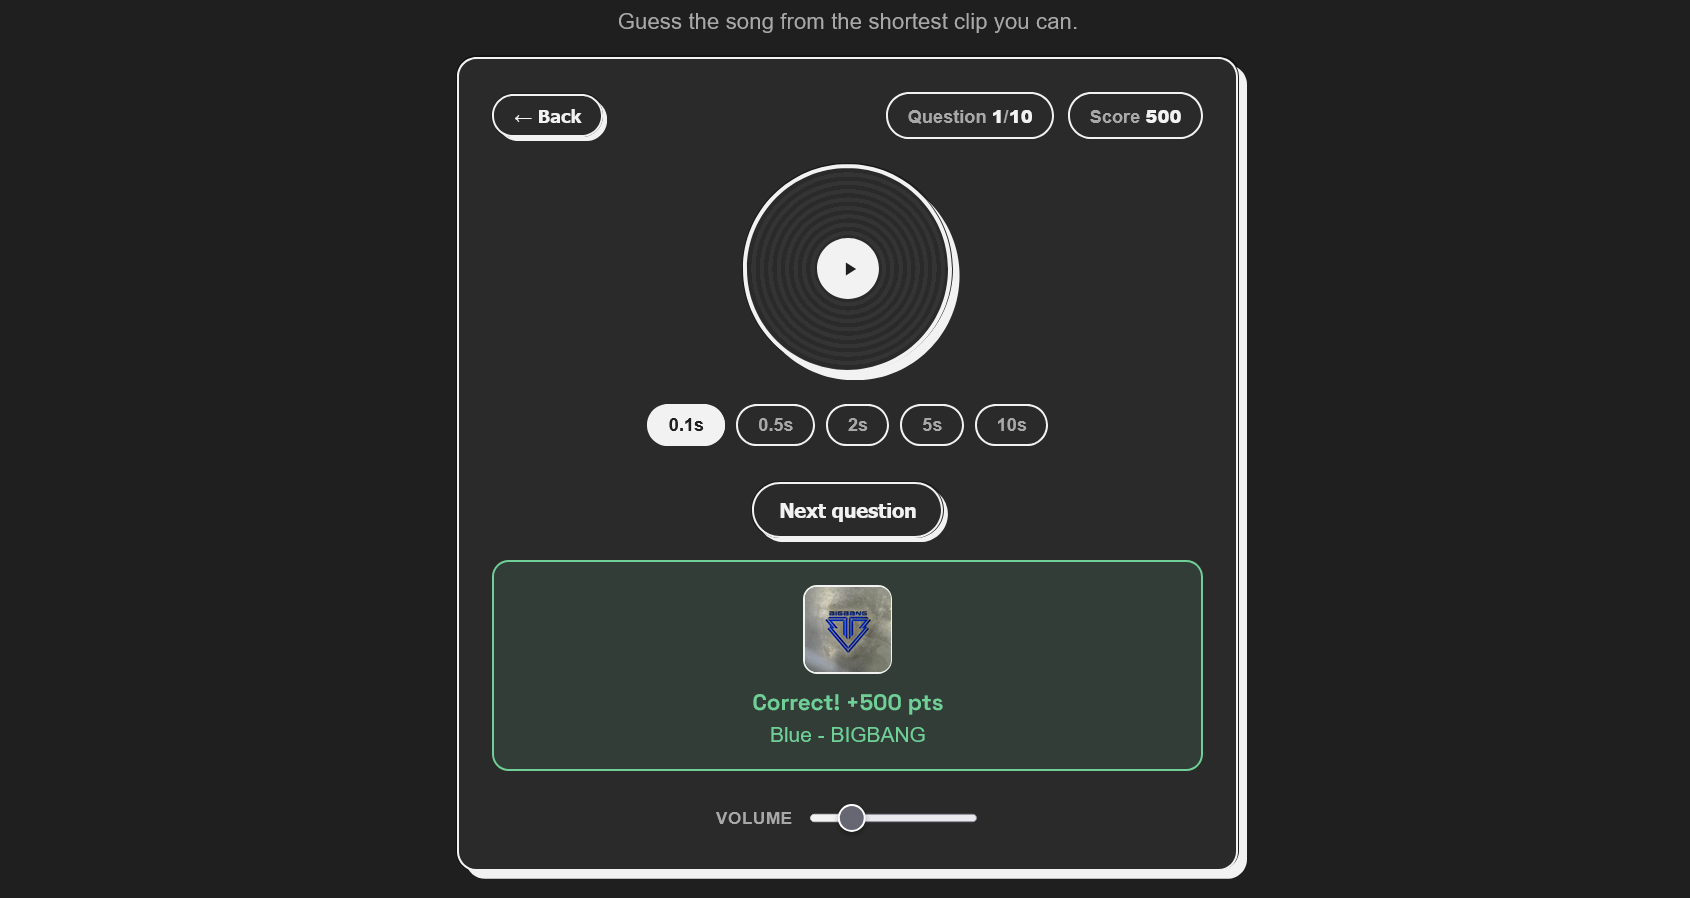
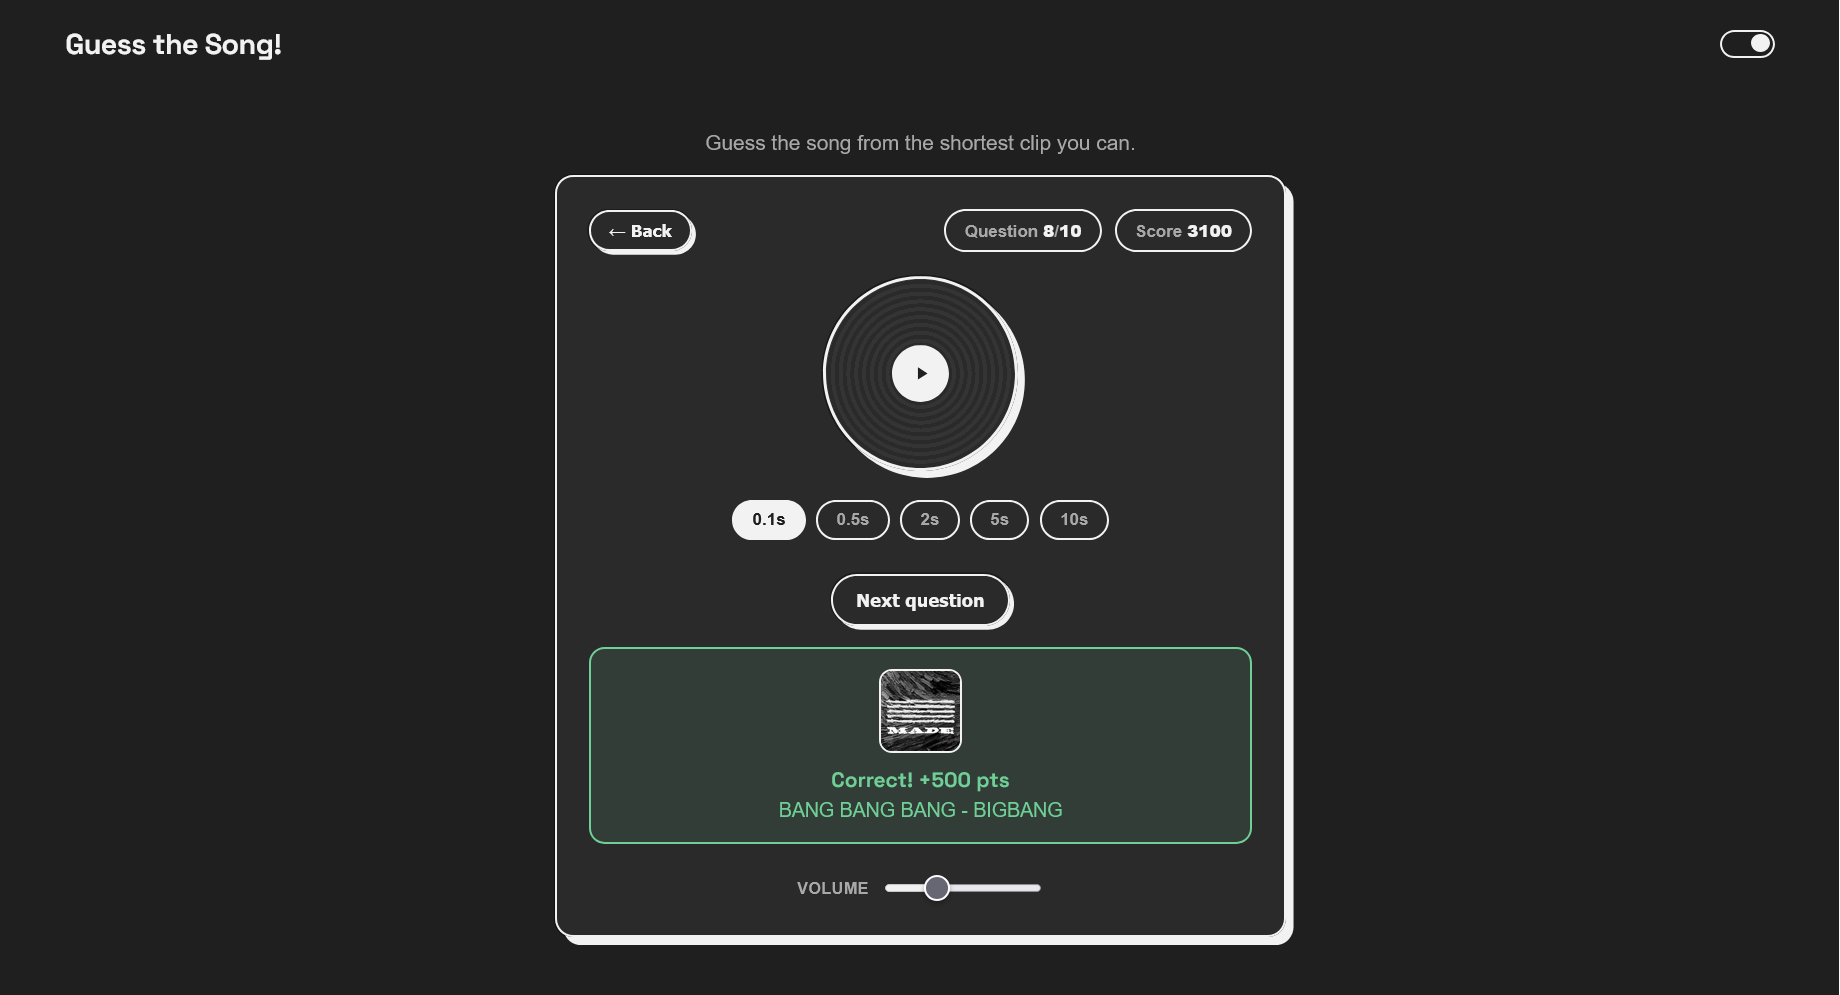
fixed attachments and project details

diff --git a/project-pages/guess-song.html b/project-pages/guess-song.html
@@ -12,7 +12,8 @@
     </script>
     <link rel="icon" href="../assets/images/favicon.png" />
     <title>Guess the Song | Albert Benedict</title>
-    <meta name="description" content="Todos + Habits tracker built with vanilla HTML/CSS/JS.">
+    <meta name="description"
+        content="Pick artist(s) and guess each track from the shortest clip you can (0.1s → 10s). Vanilla HTML/CSS/JS, iTunes Search + YouTube Data v3, Web Audio for sample-accurate playback.">
     <meta name="viewport" content="width=device-width, initial-scale=1" />
     <link rel="stylesheet" href="../css/layout.css">
     <link rel="stylesheet" href="../css/typography.css">
@@ -35,9 +36,10 @@
     <div id="main-content">
         <div id="project-header">
             <div class="main-title">Guess the Song Game</div>
-            <div class="body-text">A Songspot-like music trivia game but for any artist you pick, not a fixed daily
-                song. Search one or more artists, choose a difficulty and game mode, then guess each track from the
-                shortest clip you can. Built with vanilla HTML/CSS/JS, no backend, deployed as a static site.</div>
+            <div class="body-text">A <a href="https://songspot.net/">Songspot</a>-like music trivia game but for any
+                artist you pick, not a fixed daily song. Search one or more artists, choose a difficulty and game mode,
+                then guess each track from the shortest clip you can. Vanilla HTML/CSS/JS, iTunes Search/Lookup +
+                YouTube Data v3, Web Audio API, static-site deploy.</div>
             <img class="project-header-image" src="../assets/images/GuessTheSongThumb.png">
             <div class="project-links"><a class="button" href="https://albertbenedict.github.io/guess-the-song/"
                     target="_blank"><span class="button-text">Open Live
@@ -57,17 +59,17 @@
                     minutes come from repeatedly listening to a pretty narrow rotation of artists, recognizing a random
                     song by a random artist from a 0.1 second clip just wasn't happening. That's when the idea hit:
                     what if I built the same concept, but customizable where I pick my own artist(s), game mode,
-                    difficulty,
-                    and all that? So here it is, I miserably lost at someone else's version, so I built one that I could
-                    actually be good at.</div>
+                    difficulty, and all that? So here it is, I miserably lost at someone else's version, so I built one
+                    that I could actually be good at.</div>
                 <div class="body-text"><strong>Tech:</strong> HTML (page structure/markup), CSS (theme and layouts), JS
                     (game logic: artist search, fetching songs from iTunes, round flow, scoring, results screen).
-                    Difficulty tiers are a heuristic where buildTiers() treats the top 20% of
-                    iTunes's search-relevance results as "hits" since no free API exposes real popularity numbers. Songs
-                    are dealt from a shuffled "bag" per difficulty (pickOneRound()) so the same track can't repeat
-                    until every other song in that pool has been used. Playback uses the Web Audio API
-                    (AudioBufferSourceNode.start(when, offset, duration)) for sample-accurate clip timing. Theme
-                    toggle reuses the same data-theme + localStorage pattern as the rest of this site.</div>
+                    Difficulty tiers are a heuristic where buildTiers() treats the top 20% of iTunes's search-relevance
+                    results as "hits" since no free API exposes real popularity numbers. Songs are dealt from a shuffled
+                    "bag" per difficulty (pickOneRound()) so the same track can't repeat until every other song in that
+                    pool has been used. Playback uses Web Audio (AudioBufferSourceNode.start(when, offset, duration))
+                    for sample-accurate timing; artist avatars upgrade via YouTube Data v3 (- Topic channels, 100/day,
+                    Map-cached, referrer-restricted). Theme toggle reuses the same data-theme + localStorage
+                    pattern as the rest of this site.</div>
                 <div class="body-text"><strong>What I learned:</strong> a plain &lt;audio&gt; element controlled with
                     currentTime + setTimeout isn't precise enough for a true 0.1 second clip — it's fine on desktop
                     but unreliable on mobile Safari, sometimes producing no audible sound at all. Switching to a decoded
@@ -76,8 +78,7 @@
                     Deezer's API blocks direct browser requests (no CORS) and Spotify's requires a secret that can't
                     safely live in a public static site, so iTunes's Search API was the only free, no-auth option that
                     actually works from the browser.</div>
-                <div class="body-text"><strong>Next:</strong> Real artist photos instead of album-art thumbnails, pulled
-                    from other sources.</div>
+                <div class="body-text"><strong>Next:</strong> Share results feature, keyboard shortcuts (Space = play, Enter = guess, etc)</div>
             </div>
         </div>
 

diff --git a/index.html b/index.html
@@ -145,8 +145,7 @@
           <div class="project-card-text-container">
             <div class="subheader-text project-title">Daily Todos + Habits Tracker</div>
             <div class="body-text project-card-text">Minimal vanilla JS app to manage daily todos and track habit
-              streaks.
-              Tabs, filters, and localStorage persistence.</div>
+              streaks. Tabs, filters, and localStorage persistence.</div>
           </div>
           <a class="button" href="./project-pages/daily-tracker.html">
             <span class="button-text">Read More</span>
